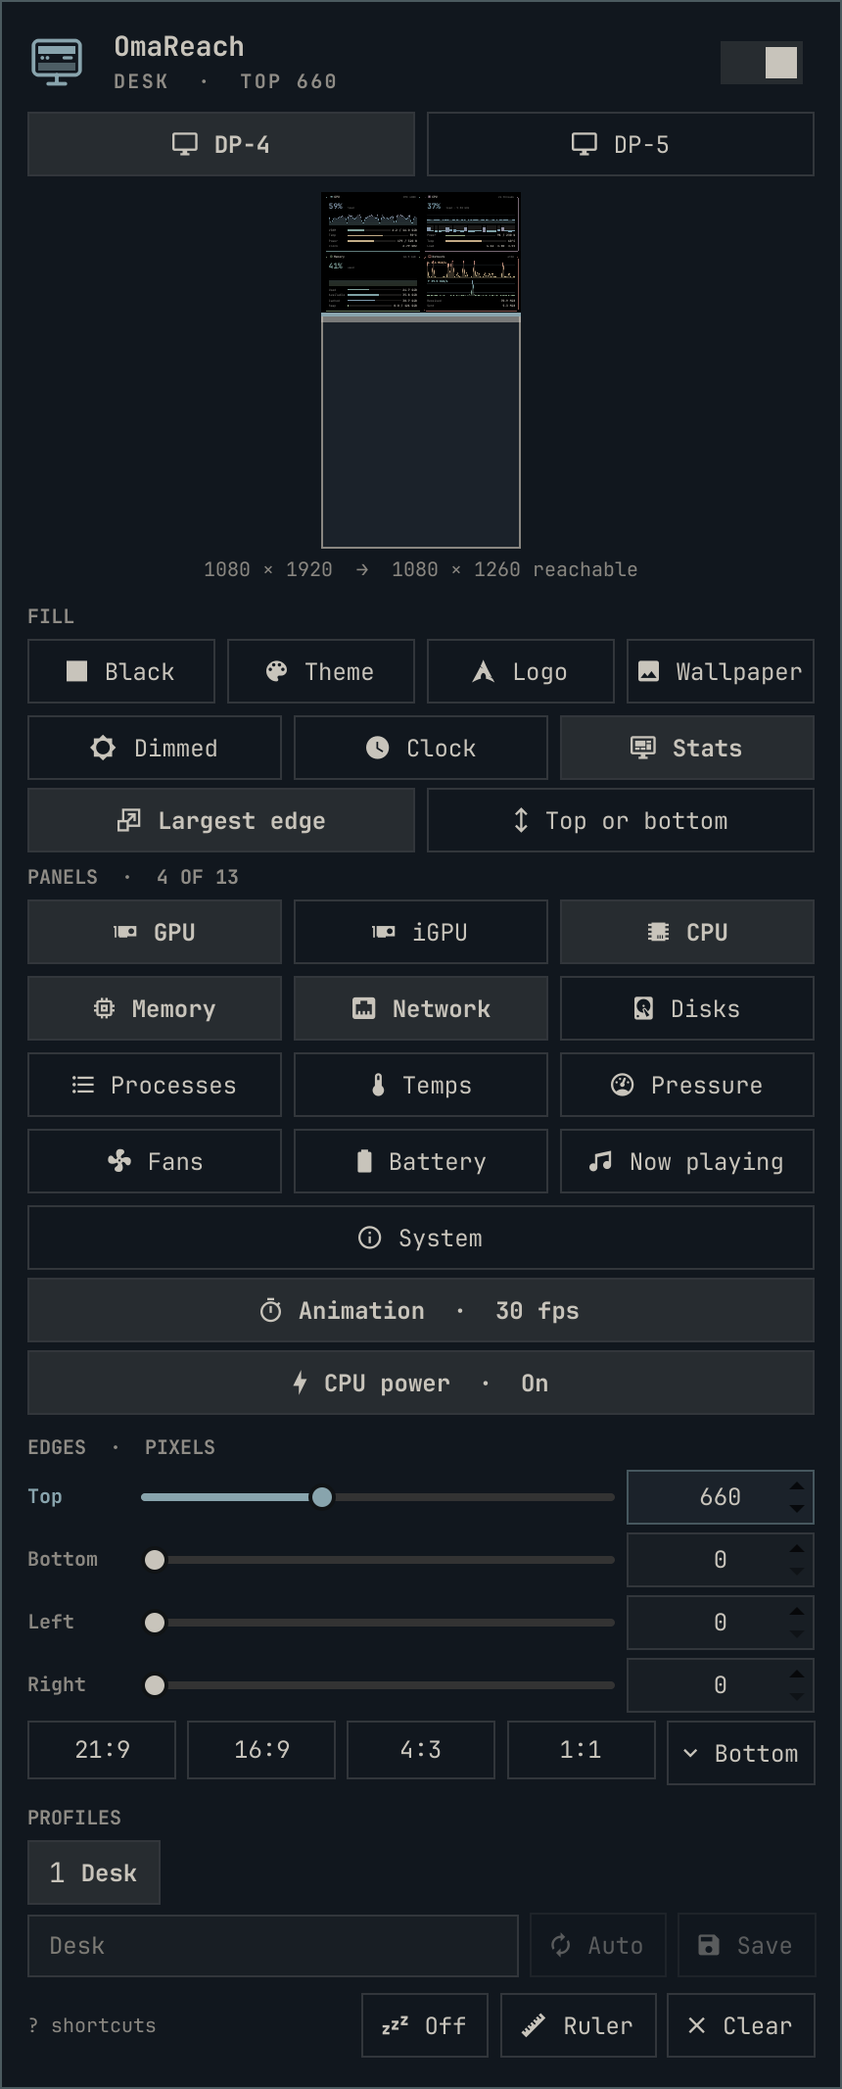
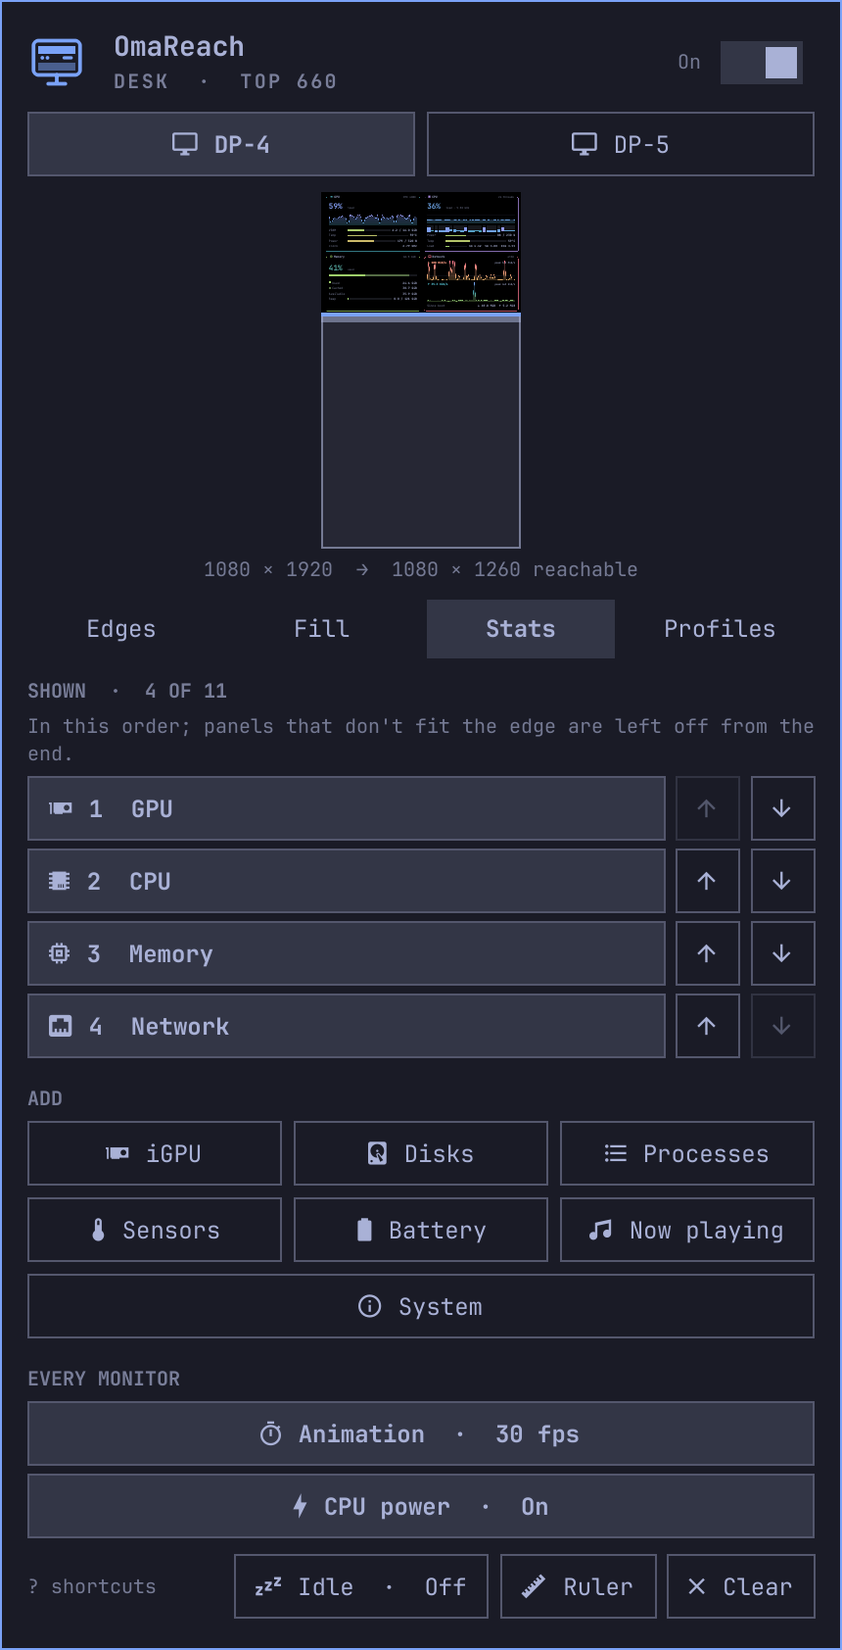
Document the panel pages and the clearer stats cards
The guides describe the panel's four pages and their keys, the Stats
page's panel order, and how to read the cards: the meter color rule,
temperatures against their limit, the warning color, graph peaks and
stall rows. The CHANGELOG, README, architecture and the development
runbook (its harness now takes PANELS, PAGE and HOT) follow. The guide
images, the hero's captures and preview.png are fresh offscreen renders
from made-up data, with a new image of all four pages.

diff --git a/docs/guide/stats-fill.md b/docs/guide/stats-fill.md
@@ -4,7 +4,7 @@ A live, btop-style system dashboard on one reserved edge.
 
 <p align="center">
   <img src="../stats.png" width="540"
-       alt="The top 660 pixels of a portrait monitor showing four btop-style boxes: GPU with a load graph and VRAM, temperature, power, clock and fan meters; CPU with a bar per thread, power against its limit and temperature; memory used, available, cached and swap; and network download and upload graphs">
+       alt="The top 660 pixels of a portrait monitor showing four btop-style boxes: GPU with a load graph and VRAM, temperature, power and clock meters; CPU with a bar per thread, power against its limit, temperature and load average; memory as one bar of used and cached memory keyed by its rows, with available and swap; and network download and upload graphs, each naming its peak, with the totals since boot">
 </p>
 
 The Stats fill shows live system numbers on one edge, as rounded boxes
@@ -14,14 +14,12 @@ with history graphs and meters:
 | --- | --- | --- |
 | GPU | The discrete GPU: load, video memory, temperature, power against its limit, clock, fan, video encode/decode while busy | `nvidia-smi` for NVIDIA, sysfs for AMD and Intel |
 | iGPU | The integrated GPU beside it, read the same way | sysfs |
-| CPU | Load and clock with a bar per thread, power draw against the CPU's limit, temperature, load average | `/proc/stat`, the CPU's hwmon sensor, RAPL, cpufreq |
-| Memory | Used, available, cached, swap | `/proc/meminfo` |
-| Network | Download and upload graphs, totals, on the interface of the default route | `/proc/net/dev`, `/proc/net/route` |
-| Disks | Read and write per disk, NVMe temperatures | `/proc/diskstats`, NVMe hwmon |
+| CPU | Load and clock with a bar per thread (performance and efficient cores apart on a hybrid Intel CPU), power draw against the CPU's limit, temperature, load average, and how long tasks stalled waiting for the CPU while they do | `/proc/stat`, the CPU's hwmon sensor, RAPL, cpufreq, `/proc/pressure` |
+| Memory | One bar of used and cached memory, available, swap, and how long tasks stalled waiting for memory while they do | `/proc/meminfo`, `/proc/pressure` |
+| Network | Download and upload graphs, each with the peak its top stands for, and totals since boot, on the interface of the default route | `/proc/net/dev`, `/proc/net/route` |
+| Disks | Read and write per disk with the peak of the last minute, NVMe temperatures, and how long tasks stalled on I/O while they do | `/proc/diskstats`, NVMe hwmon, `/proc/pressure` |
 | Processes | The busiest programs by CPU, processes of one name added up, and the apps using the most video memory | `/proc/<pid>/stat`, `nvidia-smi` |
-| Temperatures | The CPU and its dies, the GPUs, NVMe drives and memory modules | hwmon, sysfs, `nvidia-smi` |
-| Pressure | How much of the last 10 s tasks stalled waiting for CPU, memory or I/O | `/proc/pressure` |
-| Fans | The GPU's fan with its history, and every fan sensor | hwmon, `nvidia-smi` |
+| Sensors | The CPU and its dies, the GPUs, NVMe drives and memory modules, each against its own limit, then every fan and the GPU's | hwmon, sysfs, `nvidia-smi` |
 | Battery | A laptop's battery with the time left, and peripherals' such as a wireless mouse or Bluetooth headphones | `/sys/class/power_supply`, the shell's UPower devices |
 | Now playing | The track playing, with its cover and progress | the shell's MPRIS players |
 | System | Like fastfetch: Omarchy's icon beside the uptime, OS, Omarchy version and update channel, host, kernel, CPU, GPUs, memory, packages, shell, desktop, theme, load and threads | `/proc`, `/sys`, `/etc/os-release`, pacman's database |
@@ -31,10 +29,53 @@ its size: a small one keeps its headline and the first rows, never half
 of one, and a bigger one adds rows (a GPU's fan and encoder, more
 temperatures, processes and system facts). Meters too narrow to read
 are left out, and a narrow Disks card leaves the temperatures to the
-Temperatures panel. The panels tile the edge
-in the grid that gives them the most room, and the text shrinks for a
-crowded one; panels that still do not fit are left off from the end of
-the list above.
+Sensors panel. The panels tile the edge in the grid that gives them the
+most room, and the text shrinks for a crowded one; panels that still do
+not fit are left off from the end of the monitor's order.
+
+## Reading the cards
+
+The dashboard sits on an edge you can't reach, so it is made to be read
+at a glance, from a distance:
+
+- **One color rule for meters.** A meter that measures how close
+  something is to a limit (temperature, power, video memory, swap, load,
+  stalls, fans, battery) runs green through its first half, then yellow,
+  then red. Headlines and graphs keep their card's own hues, as in btop.
+- **Temperatures against their limit.** A temperature meter fills from
+  30 °C to the sensor's own limit: the critical temperature the chip
+  reports (Intel's TjMax, a memory module's or NVMe drive's limit, an AMD
+  GPU's), or else where such parts throttle (95 °C for AMD's CPUs, 90 °C
+  for NVIDIA's GPUs, which nvidia-smi does not report for every driver).
+  The Sensors headline names the CPU's limit.
+- **A warning color.** A card's outline and title turn red while one of
+  its sensors is within 5 °C of its limit, memory is 90% used, video
+  memory 95%, tasks stall 10% of the time, or a laptop's battery is at
+  15% and draining.
+- **Graphs that name their scale.** The Network and Disks graphs scale
+  to the busiest second of the last minute, which the top right names
+  ("peak 3.3 MiB/s"), so a quiet minute does not look like a busy one.
+- **The load average** names its 1, 5 and 15 minutes where the card is
+  wide enough, and its meter is the last minute's load per thread.
+- **Stalls** (pressure stall information) show on the CPU, Memory and
+  Disks cards only while tasks stall at least 1% of the time.
+
+## Panels
+
+The **Stats** page of the panel lists the panels this monitor shows, in
+order, with buttons to move each earlier or later; the dashboard lays
+them out in that order and leaves them off from the end when the edge
+runs out of room. Click a shown panel to hide it, or one under **Add** to
+show it last. Right-click either to do the same on every monitor. The
+page's **Every monitor** part sets the Animation and CPU power (below)
+for every dashboard. Without the Stats fill, the page offers to switch
+to it.
+
+The System panel's facts barely change, so it keeps the same text lit in
+the same place all day; on an OLED panel, leave it off or last.
+
+Settings from 1.7 and earlier read as before: the Fans panel is now part
+of Sensors, and the Pressure panel's numbers are the Stalled rows.
 
 The GPU panel shows the discrete GPU (NVIDIA first), and the iGPU panel the
 integrated one beside it; on a machine with only one GPU, that one is the
@@ -59,7 +100,7 @@ panel lists it first ("Power 85 / 162 W", with the clock
 moving up beside the load), its meter blue through green and yellow to
 red as it nears the CPU's power limit: Intel's own (PL1), or an
 AMD desktop's stock PPT, looked up by model since AMD keeps it in
-firmware. A laptop's or unlisted model's watts show without a meter. The panel's **CPU power · Enable** button,
+firmware. A laptop's or unlisted model's watts show without a meter. The Stats page's **CPU power · Enable** button,
 shown only where there is such a counter, opens a floating terminal that
 prints the root commands it would run, asks, and runs them with
 `sudo`, which asks for the password right there (or `pkexec` where there
@@ -101,6 +142,6 @@ firmware and stall the CPU for a moment, are read every 5 seconds.
 
 The graphs scroll and the meters ease between samples at 30 frames a
 second by default, and the dashboard redraws only as often. The
-Animation button under the panels (or `pace`) sets it for every monitor:
+Animation button on the Stats page (or `pace`) sets it for every monitor:
 the display's own rate for the smoothest motion, 60, 30 or 15 fps, or no
 animation, which redraws once a second.

diff --git a/docs/runbooks/development.md b/docs/runbooks/development.md
@@ -156,7 +156,8 @@ FloatingWindow {
 ```
 
 `shell.qml` draws the stats fill of a 660 px top edge on a 1080 px wide
-monitor, or opens the panel, depending on `CAPTURE`:
+monitor, or opens the panel, depending on `CAPTURE`. `PANELS` (a comma
+list) picks the dashboard's panels and `PAGE` the panel's page:
 
 ```qml
 import QtQuick
@@ -177,7 +178,7 @@ ShellRoot {
       side: "top"
       mode: "stats"
       dim: 0.6
-      panels: ["gpu", "cpu", "memory", "network"]
+      panels: (Quickshell.env("PANELS") || "gpu,cpu,memory,network").split(",")
       size: 660
       screenWidth: 1080
       screenHeight: 1920
@@ -201,7 +202,7 @@ ShellRoot {
       source: "plugin/Panel.qml"
       onLoaded: openTimer.start()
     }
-    Timer { id: openTimer; interval: 1500; onTriggered: panelLoader.item.open() }
+    Timer { id: openTimer; interval: 1500; onTriggered: { panelLoader.item.page = Quickshell.env("PAGE") || "edges"; panelLoader.item.open() } }
   }
 }
 ```
@@ -282,14 +283,16 @@ own `HOME`):
 S=$(cd "$(dirname "$0")" && pwd)
 env -i PATH="$S/bin:/usr/bin" HOME="$S/home" XDG_RUNTIME_DIR="$S/runtime" \
   XDG_STATE_HOME="$S/home/.local/state" XDG_CONFIG_HOME="$S/home/.config" \
-  CPU_POWER_SYSFS="$S/powercap" CAPTURE="$1" OUT="$2" \
+  CPU_POWER_SYSFS="$S/powercap" CAPTURE="$1" OUT="$2" PANELS="$PANELS" HOT="$HOT" PAGE="$PAGE" \
   QT_QPA_PLATFORM="offscreen:configfile=$S/screens.json" QT_SCALE_FACTOR=2 \
   timeout 40 quickshell -p "$S" 2>&1 | grep -v "^  " | tail -25
 ```
 
 ```bash
-$H/run.sh stats $H/out/stats.png   # 2160×1320: 1080×660 at 2x
-$H/run.sh panel $H/out/panel.png   # 860×2132: the whole panel at 2x
+$H/run.sh stats $H/out/stats.png               # 2160×1320: 1080×660 at 2x
+PAGE=stats $H/run.sh panel $H/out/panel.png    # 860 wide, as tall as the page, at 2x
+PANELS=gpu,cpu,memory,network,disks,processes,temps,system HOT=1 \
+  $H/run.sh stats $H/out/hot.png               # eight panels, with warnings
 ```
 
 Shaders (`MultiEffect`) draw nothing offscreen, and Hyprland, MPRIS and
@@ -339,9 +342,12 @@ while :; do
   rd=$(( rd + 2000 + n % 5 * 900 )); wr=$(( wr + 1500 + n % 4 * 700 ))
   printf '@disk\n 259 0 nvme0n1 1000 0 %d 100 1000 0 %d 100 0 0 0\n' $rd $wr
   printf '@model\nnvme0n1\tSample NVMe SSD 2TB\n'
-  printf '@psi\ncpu some avg10=1.20 avg60=1.00 avg300=0.90 total=1\nmemory some avg10=0.00 avg60=0.00 avg300=0.00 total=1\nio some avg10=0.40 avg60=0.30 avg300=0.20 total=1\n'
-  printf '@hwmon\nk10temp\ttemp1\tTctl\t%d\nk10temp\ttemp3\tTccd1\t%d\nk10temp\ttemp4\tTccd2\t%d\nnct6799\tfan1\tCPU fan\t%d\n' $(( 59000 + n%5*500 )) 57000 55000 1180
-  if (( n % 5 == 0 )); then printf '@slowhwmon\n@nvme\nnvme0\t41850\n'; fi
+  # HOT=1 runs the CPU near its limit and stalls I/O, to show warnings.
+  io=0.40; [ -n "$HOT" ] && io=12.40
+  printf '@psi\ncpu some avg10=1.20 avg60=1.00 avg300=0.90 total=1\nmemory some avg10=0.00 avg60=0.00 avg300=0.00 total=1\nio some avg10=%s avg60=0.30 avg300=0.20 total=1\n' $io
+  tctl=$(( ${HOT:+34000} + 59000 + n%5*500 ))
+  printf '@hwmon\nk10temp\ttemp1\tTctl\t%d\t\nk10temp\ttemp3\tTccd1\t%d\t\nk10temp\ttemp4\tTccd2\t%d\t\nspd5118\ttemp1\t\t51000\t85000\nnct6799\tfan1\tCPU fan\t%d\t\nnct6799\tfan2\tCase fan\t%d\t\n' $tctl 57000 55000 1180 860
+  if (( n % 5 == 0 )); then printf '@slowhwmon\n@nvme\nnvme0\t41850\t84850\n'; fi
   energy=$(( energy + 82000000 + (n % 6) * 3000000 ))
   printf '@rapl\nintel-rapl:0\t%d\t65532610987\t\n' $energy
   printf '@freq\n'; for i in $(seq 0 23); do echo 5300000; done
@@ -394,7 +400,7 @@ offscreen captures:
 | Capture | From |
 | --- | --- |
 | `docs/brand/captures/stats.png` | `run.sh stats` with the fake sampler |
-| `docs/brand/captures/panel.png` | `run.sh panel` with the fake sampler |
+| `docs/brand/captures/panel.png` | `PAGE=stats run.sh panel` with the fake sampler |
 
 The monitor frame, bar, terminal and placeholder window around the stats
 capture are drawn in the SVG. To refresh:
@@ -416,9 +422,17 @@ chip icons are its glyphs. The current `preview.png` was rendered with
 librsvg 2.63.3 with that font installed. Other fonts change spacing and
 drop the icons, so inspect the output after rendering.
 
-The guides' smaller images, `docs/panel.png` and `docs/stats.png`, are
-renders of the same two components; refresh them the same way when the
-panel or the dashboard changes.
+The guides' smaller images are renders of the same two components:
+`docs/stats.png` as above, `docs/panel.png` the panel's Edges page, and
+`docs/panel-pages.png` its four pages side by side:
+
+```bash
+for p in edges fill stats profiles; do PAGE=$p $H/run.sh panel $H/out/panel-$p.png; done
+cd $H/out && magick panel-edges.png panel-fill.png panel-stats.png panel-profiles.png \
+  -gravity north -background '#0a0e13' -splice 24x0 +append -chop 24x0 +repage panel-pages.png
+```
+
+Refresh them the same way when the panel or the dashboard changes.
 
 ## Release
 

diff --git a/docs/guide/panel.md b/docs/guide/panel.md
@@ -7,7 +7,26 @@ bar is on; use the monitor buttons (or Tab) to switch. Changes apply live.
 
 <p align="center">
   <img src="../panel.png" width="360"
-       alt="The OmaReach panel for DP-4 with the Desk profile: a to-scale preview of a portrait monitor with the stats dashboard on its top 660 pixels, the seven fill buttons with Stats selected, the clock-edge choice, the thirteen stats panels with GPU, CPU, Memory and Network on, the Animation and CPU power buttons, and a slider and pixel field for each edge">
+       alt="The OmaReach panel for DP-4 with the Desk profile on its Edges page: the header with the On switch, the DP-4 and DP-5 buttons, a to-scale preview of a portrait monitor with the stats dashboard on its top 660 pixels, the Edges, Fill, Stats and Profiles tabs, a slider and pixel field for each edge, the aspect presets, and the Idle, Ruler and Clear buttons">
+</p>
+
+The header, the monitor buttons and the preview stay at the top; below
+them, one page at a time:
+
+| Page | What it sets | Described in |
+| --- | --- | --- |
+| **Edges** | Each edge in pixels, and the aspect presets | below |
+| **Fill** | What the edges show, the dim amount, which edge the clock or the stats go on | [Fills](fills.md) |
+| **Stats** | The dashboard's panels and their order, its animation and CPU power | [The stats fill](stats-fill.md) |
+| **Profiles** | Named snapshots of every monitor | [Profiles](profiles.md) |
+
+Click a tab or press `[` and `]` to switch pages; the edge keys bring up
+Edges. The panel opens on the page it was left on. On a screen too short
+for a page, the panel scrolls.
+
+<p align="center">
+  <img src="../panel-pages.png"
+       alt="The panel's four pages side by side: Edges with the edge sliders and aspect presets; Fill with the seven fills, Stats selected, where the stats go and Same on every monitor; Stats with GPU, CPU, Memory and Network shown in order with buttons to move them, the panels to add, and the Animation and CPU power buttons; Profiles with the Desk profile, the name field, Auto and Save">
 </p>
 
 - **Preview**: the monitor drawn to scale, with the black edges, the
@@ -28,19 +47,22 @@ bar is on; use the monitor buttons (or Tab) to switch. Changes apply live.
   line left on screen with N px reserved, so for an edge behind a bezel or
   another monitor, reserve about the first tick you can see. Closing the
   panel hides the ruler.
-- **Switch**: pauses a monitor's reservation without forgetting the values.
-  Right-clicking the bar icon does the same for the bar's monitor.
+- **Switch** (top right, labelled On or Paused): pauses a monitor's
+  reservation without forgetting the values. Right-clicking the bar icon
+  does the same for the bar's monitor.
 - **Clear**: removes every reserved edge on the monitor. Right after a
   Clear, or zeroing an edge, the button turns into **Undo**.
 
-The **Fill**, **Panels** and **Idle** controls are described in
-[Fills](fills.md), and **Profiles** in [Profiles](profiles.md).
+The **Fill** page and the **Idle** button are described in
+[Fills](fills.md), the **Stats** page in [The stats fill](stats-fill.md),
+and **Profiles** in [Profiles](profiles.md).
 
 Values are in logical pixels. On a scaled monitor the panel shows the scale
 next to the edges, since a ruler on the screen measures something else.
 
 | Key | Action |
 | --- | --- |
+| `[` / `]` | Previous or next page |
 | `j` / `k`, ↓ / ↑ | Select an edge |
 | `h` / `l`, ← / → | Shrink or grow it by 10 px (Shift: 100, Ctrl: 1) |
 | `0`, Backspace, Delete | Zero the selected edge |

diff --git a/CHANGELOG.md b/CHANGELOG.md
@@ -2,7 +2,48 @@
 
 ## Unreleased
 
+### Added
+
+- **Panel pages:** the panel keeps its header, monitor buttons and preview
+  on top and shows one page at a time below them: Edges, Fill, Stats and
+  Profiles. Click a tab or press `[` and `]`; the edge keys bring up
+  Edges, and the panel opens where it was left. It scrolls on a screen
+  too short for a page, where the bottom rows used to be cut off.
+- **Panel order:** the Stats page lists a monitor's panels in order, with
+  buttons to move them, and the rest to add. The dashboard lays them out
+  in that order and leaves them off from the end; `panels` over IPC keeps
+  the order given.
+- **Warning color:** a stats card's outline and title turn red while one
+  of its sensors is within 5 °C of its limit, memory is 90% used, video
+  memory 95%, tasks stall 10% of the time, or a laptop battery is low.
+- **Hybrid CPUs:** an Intel CPU's performance and efficient threads show
+  as two groups of bars, and the CPU card counts each.
+- **Same on every monitor** on the Fill page, which right-click alone
+  used to do.
+
 ### Changed
+
+- **Temperatures against their limit:** temperature meters fill from
+  30 °C to the sensor's critical temperature (from hwmon, NVMe and amdgpu,
+  read by `stats.sh`), or to where the part throttles, instead of a 0 to
+  100 °C scale.
+- **Memory card:** one bar of used and cached memory keyed by its rows,
+  in place of a flat graph and meters for Used and Available, which said
+  the same thing twice.
+- **Network and Disks graphs** name the peak their top stands for; the
+  Network totals are one Since boot row.
+- **Load average** names its minutes where the card is wide enough, with
+  a meter for the load per thread.
+- **One meter color rule:** every meter that measures closeness to a
+  limit runs green, yellow, red.
+- **Sensors panel:** Temperatures and Fans are one panel. The Pressure
+  panel's numbers are Stalled rows on the CPU, Memory and Disks cards
+  while tasks stall. Saved panel lists, profiles and IPC names (`fans`)
+  carry over.
+- Labels for what was hidden: the pause switch says On or Paused, the
+  Idle button names itself, the stats fill's edge choice says what it
+  places, and the Profiles page says what Auto does.
+- `Stats.js` is split: the layout and the cards live in `StatsViews.js`.
 
 - The README is a short landing page. The manual moved, word for word, to
   guides in `docs/guide/`: the panel, fills, profiles, the stats fill,

diff --git a/README.md b/README.md
@@ -1,6 +1,6 @@
 # <img src="icon.svg" alt="" width="32" height="32" align="top"> OmaReach
 
-![OmaReach: the wordmark, the tagline "Use only the screen you can reach.", feature chips and the install command, beside a portrait monitor whose top edge shows a btop-style dashboard (GPU, CPU, memory and network) above a terminal running omarchy-shell pym.omareach commands, and the plugin's panel for DP-4 with the Stats fill and its thirteen panels](preview.png)
+![OmaReach: the wordmark, the tagline "Use only the screen you can reach.", feature chips and the install command, beside a portrait monitor whose top edge shows a btop-style dashboard (GPU, CPU, memory and network) above a terminal running omarchy-shell pym.omareach commands, and the plugin's panel for DP-4 on its Stats page, with GPU, CPU, Memory and Network shown in order and the other panels to add](preview.png)
 
 **Use only the screen you can reach.** OmaReach blacks out monitor edges you
 can't reach (the top of a tall rotated monitor, a strip behind a bezel or a
@@ -27,8 +27,10 @@ logo, a clock or a live btop-style system dashboard.
   [The panel](docs/guide/panel.md)
 - **Fills:** black (safe on OLED), the theme color, the wallpaper slice
   (plain or dimmed), the Omarchy logo, a big blocky clock, or a live
-  **stats dashboard** with 13 panels: GPU, CPU, memory, network, disks,
-  temperatures, battery, now playing and more.
+  **stats dashboard** with 11 panels in the order you choose: GPU, CPU,
+  memory, network, disks, sensors, battery, now playing and more, with
+  meters against each part's own limit and a warning color you can see
+  from across the room.
   [Fills](docs/guide/fills.md) · [The stats fill](docs/guide/stats-fill.md)
 - **Profiles:** save every monitor under a name, apply it with `1` to `9`,
   or let it apply by itself when that set of monitors connects.

diff --git a/docs/guide/fills.md b/docs/guide/fills.md
@@ -17,15 +17,15 @@ Omarchy logo, a clock or the stats dashboard, and black when idle.
   digits are always upright and as large as the edge allows: one line on a
   wide edge, hours over minutes on a tall one. **Stats** turns the same one
   edge into a live system dashboard in the style of btop (see [The stats fill](stats-fill.md)).
-  Right-click a fill to give it to every monitor, with this monitor's dim
-  amount, clock edge and stats panels.
+  **Same on every monitor** (or right-clicking a fill) gives every monitor
+  this one's fill, with its dim amount, clock edge and stats panels.
   Every fill except Black keeps something lit in the
   same place all day, which can burn into an OLED panel. The clock and the
   logo move a few pixels every 5 minutes to spread the wear, and so does the
   stats dashboard. While the monitor shows a fullscreen window, every edge
   goes black, except the stats dashboard, which stays up beside a game.
-- **Panels** (with the Stats fill): which panels the dashboard shows. Click
-  one to show or hide it; right-click to do the same on every monitor.
+- **Stats page**: which panels the dashboard shows, and in which order (see
+  [The stats fill](stats-fill.md#panels)).
 - **Idle** (the moon button): every edge on every monitor goes black after
   30 s, 1 min or 5 min without input, and back on the next input, whatever
   the fill. Off by default. An app that holds off the screensaver, such as a

diff --git a/docs/architecture.md b/docs/architecture.md
@@ -44,9 +44,15 @@ omareach.json ⇄ ReserveState (singleton) ──► Service ──► spacer + 
   windows to the reachable area
   ([ADR 5](adr/0005-fit-fullscreen-to-the-reachable-area.md)), turns every
   edge black while idle, and answers `omarchy-shell pym.omareach …`.
-- **`Panel.qml`** is the bar widget: a to-scale preview, fills, stats
-  panels, edge sliders and fields, aspect presets, profiles, idle, ruler and
-  undo, with keyboard shortcuts. Edits go to `ReserveState`.
+- **`Panel.qml`** is the bar widget: the bar button and its card, with
+  the header, monitor buttons, preview, page tabs, idle, ruler and undo,
+  the edit functions the pages call and the keyboard shortcuts. Edits go
+  to `ReserveState`. **`PanelPreview.qml`** is the to-scale preview with
+  its draggable edges, and the pages are **`PanelEdgesPage.qml`** (edge
+  sliders and fields, aspect presets), **`PanelFillPage.qml`** (fills, dim,
+  the clock's edge), **`PanelStatsPage.qml`** (the dashboard's panels and
+  their order, animation, CPU power) and **`PanelProfilesPage.qml`**. Each
+  takes the Panel as `panel`.
 - **`ReserveFill.qml`** draws one edge's fill (black, theme, wallpaper,
   dimmed, logo, clock or stats) for both the caps and the panel's preview.
   The logo recolors the SVG's text, and the clock is blocks from
